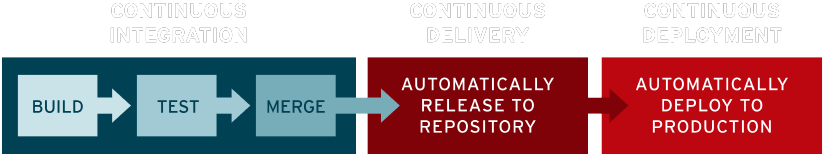
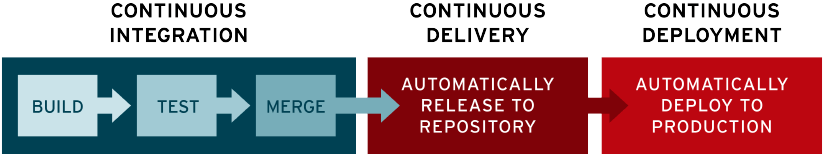
:lipstick: Mudando tema para banco

diff --git a/docs/css/app.css b/docs/css/app.css
@@ -1,18 +1,20 @@
 :root {
   --r-main-font-size: 28px;
+  --r-main-font: Roboto, sans-serif;
   --r-heading-font: var(--r-main-font);
-  --r-heading-font-weight: 700;
+  --r-heading-font-weight: 600;
   --r-heading-letter-spacing: -2px;
   --r-heading-text-transform: normal;
   --r-code-font: "JetBrains Mono", monospace;
-  --r-link-color: #ee82ee;
-  --r-link-color-hover: #a782ed;
+  --r-link-color: #027bce;
+  --r-link-color-hover: var(--color-accent);
+  --r-block-margin: 10px;
   --border-radius: 5px;
-  --background-color-darker: rgba(255, 255, 255, 0.05);
-  --color-muted: #ccc;
-  --color-kbd: var(--color-muted);
-  --color-subheading: #b5c2b7;
-  --color-accent: #ff9e00;
+  --background-color-darker: rgba(0, 0, 0, 0.03);
+  --color-muted: #777;
+  --color-kbd: #fc7753;
+  --color-subheading: #999;
+  --color-accent: #0496ff;
   --color-heading2: var(--color-accent);
 }
 
@@ -20,18 +22,20 @@
 .reveal .slide-background {
   background-size: 100% 100%;
   background-position: 0 0, 0 0, 0 0, 0 0;
-  background-image: radial-gradient(40% 30% at 110% 0%, #ff9e0030 0%, #19191900 100%),
-  radial-gradient(40% 20% at 40% 0%, #03232cff 0%, #19191900 100%),
-  radial-gradient(40% 40% at 0% 100%, #4d0a4dff 1%, #19191900 100%),
-  radial-gradient(142% 91% at 111% 84%, #151515ff 0%, #1a1a1aff 100%);
+  background-image: radial-gradient(40% 30% at 0% 0%, #03234c20 0%, #ffffff00 100%),
+    radial-gradient(142% 91% at 111% 84%, #d0d0d0ff 0%, #ffffffff 100%);
 }
 .reveal .slides {
   text-align: left;
   letter-spacing: -1px;
 }
 .reveal .slide-number {
+  border-radius: var(--border-radius);
   right: auto;
   left: 8px;
+}
+.reveal p {
+  --r-block-margin: 20px;
 }
 
 /* Código */
@@ -39,6 +43,7 @@
   margin-left: 0;
   width: 100%;
   letter-spacing: -0.5px;
+  font-size: 0.51em;
 }
 code:not(.hljs) {
   font-size: 0.8em;
@@ -46,7 +51,7 @@ code:not(.hljs) {
   --padding-x: 7px;
   padding: 2px var(--padding-x);
   background-color: var(--background-color-darker);
-  color: var(--color-heading2);
+  color: var(--color-kbd);
 }
 h2 > code:not(.hljs),
 h3 > code:not(.hljs) {
@@ -55,6 +60,8 @@ h3 > code:not(.hljs) {
 kbd {
   font-family: var(--r-code-font);
   color: var(--color-kbd);
+  font-size: 0.9em;
+  letter-spacing: -1.5px;
 }
 a > kbd {
   color: var(--r-link-color);
@@ -63,7 +70,6 @@ a:is(:hover, :focus) > kbd {
   color: var(--r-link-color-hover);
 }
 code.hljs {
-  /*background-color: #010409;*/
   border-radius: var(--border-radius);
 }
 code.hljs.shell {
@@ -78,6 +84,14 @@ td.hljs-ln-line.hljs-ln-numbers {
 .pre-wrap {
   white-space: pre-wrap !important;
 }
+.hljs-attr,
+.hljs-link,
+.hljs-literal,
+.hljs-number,
+.hljs-symbol,
+.hljs-variable.constant_ {
+  color: var(--color-kbd);
+}
 
 /* Cabeçalho */
 h1.subtitle {
@@ -90,16 +104,21 @@ h1.subtitle {
 }
 h2 {
   --r-heading-color: var(--color-heading2);
+  --r-heading-line-height: 1;
+  --r-heading-margin: 0 0 40px 0;
 }
 
 /* Quote */
 .reveal blockquote {
   width: 100%;
+  color: #2e2f2f;
   margin-left: 0;
   padding: 15px;
   font-size: 0.9em;
   border-radius: var(--border-radius);
   box-sizing: border-box;
+  background-color: rgba(255, 255, 255, 0.2);
+  box-shadow: 0 0 7px rgba(0, 0, 0, 0.1);
 }
 
 /* Referências */
@@ -136,6 +155,10 @@ a.reference:after {
 }
 #about-me > ul > li + li {
   margin-top: 0.2em;
+}
+#about-me-name {
+  font-weight: 600;
+  line-height: 1;
 }
 #profile-pic {
   margin: 0;
@@ -186,15 +209,16 @@ a.reference:after {
 
 /* Primeiro slide */
 #first-slide > h1 {
-  font-weight: 900;
+  --r-heading-font-weight: 700;
+  --r-heading-line-height: 1;
 }
 #first-slide > h2 {
   display: inline-block;
-  font-size: 1.2em;
-  font-weight: bold;
-  color: #111;
+  --r-heading2-size: 1.2em;
+  --r-heading-font-weight: 600;
+  --r-heading-color: #f2f2f2;
   background: var(--color-heading2);
-  padding: 4px 10px;
+  padding: 4px 8px;
   border-radius: var(--border-radius);
 }
 

diff --git a/docs/index.html b/docs/index.html
@@ -9,14 +9,15 @@
 
         <link rel="stylesheet" href="reveal.js/dist/reset.css">
         <link rel="stylesheet" href="reveal.js/dist/reveal.css">
-        <link rel="stylesheet" href="reveal.js/dist/theme/black.css">
+        <link rel="stylesheet" href="reveal.js/dist/theme/white.css">
 
         <link rel="stylesheet"
-              href="https://cdnjs.cloudflare.com/ajax/libs/highlight.js/11.9.0/styles/base16/dracula.min.css"
-              integrity="sha512-zKpFlhUX8c+WC6H/XTJavnEpWFt2zH9BU9vu0Hry5Y+SEgG21pRMFcecS7DgDXIegXBQ3uK9puwWPP3h6WSR9g=="
-              crossorigin="anonymous" referrerpolicy="no-referrer">
+              href="https://cdnjs.cloudflare.com/ajax/libs/highlight.js/11.9.0/styles/base16/framer.min.css"
+              integrity="sha512-tegeSiwBwq2gYD87Cycxj1Q5PX/y2owrYz1b0QmyEBldD9+mH+CxQK0/3FgRY37inbVLVNaARzMbLD/sl5YtCA=="
+              crossorigin="anonymous" referrerpolicy="no-referrer"/>
         <link rel="preconnect" href="https://fonts.googleapis.com">
         <link rel="preconnect" href="https://fonts.gstatic.com" crossorigin>
+        <link href="https://fonts.googleapis.com/css2?family=Roboto:ital,wght@0,400;0,700;1,400&display=swap" rel="stylesheet">
         <link rel="stylesheet" href="https://fonts.googleapis.com/css2?family=JetBrains+Mono&display=swap">
         <link rel="stylesheet" href="css/app.css">
     </head>
@@ -46,7 +47,7 @@
                                 <li>Entusiasta em cibersegurança</li>
                                 <li>Consultor de TI e instrutor de treinamentos</li>
                             </ul>
-                            <div class="fw-bold text-center">Vinícius<br>Campitelli</div>
+                            <div id="about-me-name" class="text-center">Vinícius<br>Campitelli</div>
                         </div>
                         <div>
                             <div class="about-me-links">
@@ -596,7 +597,7 @@
                         <h2>Falhar Rápido</h2>
                         <p>
                             Organize os <em>jobs</em> e <em>steps</em> para que as ações mais rápidas sejam executadas
-                            primeiro. Assim, caso alguma etapa falhe, economizaremos tempo (e, com isso, dinheiro).
+                            primeiro &mdash; assim, caso alguma etapa falhe, economizaremos tempo (e dinheiro)
                         </p>
                     </section>
                     <section data-auto-animate>
@@ -821,9 +822,11 @@
                         <h1 class="subtitle">Dicas de Segurança</h1>
                         <h2>Não deixar credenciais</h2>
                         <p>
-                            <b>Nunca</b> deixe credenciais (senhas, chaves de API, <em>access tokens</em> e afins) em
-                            seus <em>workflows</em>. Utilize os <em>secrets</em> para guardar essas informações, que não
-                            vazarão em <em>logs</em> e nem poderão ser lidas por outros colaboradores do repositório.
+                            <b>Nunca</b> deixe credenciais (como senhas e chaves de API) nos <em>workflows</em>
+                        </p>
+                        <p>
+                            Utilize os <em>secrets</em> para guardar essas informações, que não vazarão em <em>logs</em>
+                            e nem poderão ser lidas por outros colaboradores do repositório
                         </p>
                         <div class="d-flex cols-2">
                             <div>
